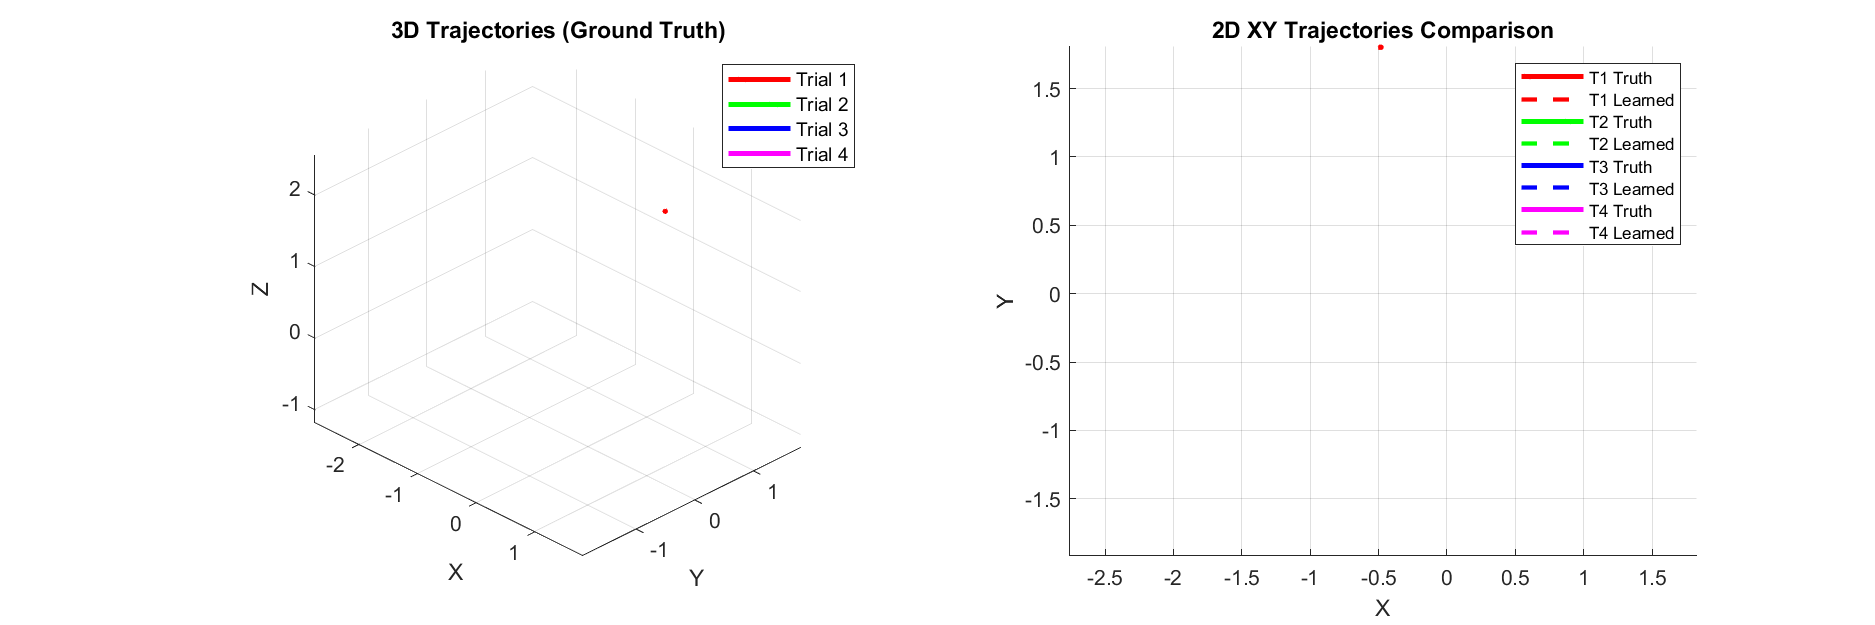
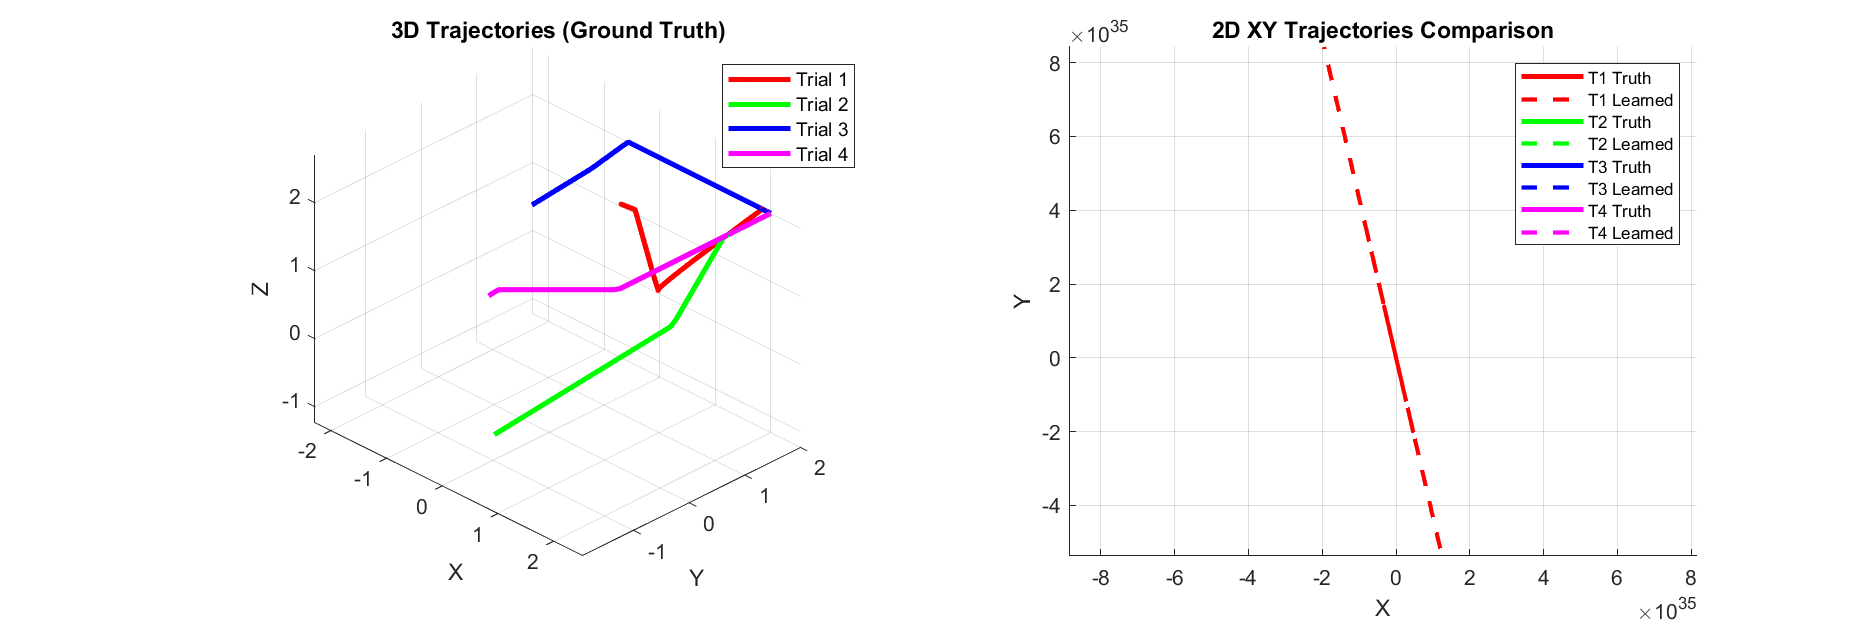
changed parameters

diff --git a/hierarchical_motion_inference_3D_EXACT.m b/hierarchical_motion_inference_3D_EXACT.m
@@ -128,10 +128,10 @@ fprintf('  Workspace: x,y,z ∈ [%.2f, %.2f] meters\n\n', workspace_bounds(1,1),
 % LEARNING PARAMETERS
 % ====================================================================
 
-eta_rep = 0.01;          % Representation learning rate (INCREASED from 0.001497)
-eta_W = 0.001;           % Weight matrix learning rate (INCREASED from 0.000155)
-momentum = 0.90;         % Momentum for representation updates (DECREASED for faster learning)
-weight_decay = 0.98;     % L2 regularization on weights (DECREASED for less decay)
+eta_rep = 0.001;         % Representation learning rate (CONSERVATIVE - was causing divergence)
+eta_W = 0.0001;          % Weight matrix learning rate (CONSERVATIVE)
+momentum = 0.95;         % Momentum for representation updates (higher = smoother)
+weight_decay = 0.99;     % L2 regularization on weights (more decay = more stability)
 pi_L1 = 100;             % Precision (reliability) of L1 sensory input
 pi_L2 = 10;              % Precision of L2 motor basis
 pi_L3 = 1;               % Precision of L3 goal representation
@@ -317,17 +317,24 @@ for i = 1:N-1
     % STEP 6: REPRESENTATION UPDATES (3D)
     % ==============================================================
     
-    % L1: Proprioceptive state updates - LEARN from prediction error
-    % Position: update toward sensory input but learn to predict it
-    % (Don't clamp - let it learn!)
-    delta_R_L1_pos = E_L1(i,1:3);  % Position error drives learning
-    R_L1(i+1,1:3) = R_L1(i,1:3) - eta_rep * delta_R_L1_pos * 0.5;  % Partial update
+    % L1: Proprioceptive state updates
+    % Position is integrated from velocity (standard kinematics)
+    % Don't update position directly - let velocity drive it
     
-    % Velocity inferred from prediction error
-    delta_R_L1_vel = -E_L1(i,4:6);
+    % Velocity inferred from prediction error (small learning rate to avoid divergence)
     decay = 1 - momentum;
-    R_L1(i+1,4:6) = momentum * R_L1(i,4:6) + decay * eta_rep * delta_R_L1_vel;
-    R_L1(i+1,4:6) = max(-2, min(2, R_L1(i+1,4:6)));  % 3D Velocity bounds
+    delta_R_L1_vel = -E_L1(i,4:6);
+    R_L1(i+1,4:6) = momentum * R_L1(i,4:6) + decay * (eta_rep * 0.1) * delta_R_L1_vel;
+    R_L1(i+1,4:6) = max(-2, min(2, R_L1(i+1,4:6)));  % 3D Velocity bounds [-2, 2] m/s
+    
+    % Position integrates from velocity (stable kinematic equation)
+    R_L1(i+1,1:3) = R_L1(i,1:3) + dt * R_L1(i+1,4:6);
+    
+    % Clamp to workspace bounds (prevent unbounded growth)
+    R_L1(i+1,1) = max(workspace_bounds(1,1), min(workspace_bounds(1,2), R_L1(i+1,1)));
+    R_L1(i+1,2) = max(workspace_bounds(2,1), min(workspace_bounds(2,2), R_L1(i+1,2)));
+    R_L1(i+1,3) = max(workspace_bounds(3,1), min(workspace_bounds(3,2), R_L1(i+1,3)));
+    
     R_L1(i+1,7) = 1;  % Bias
     
     % L2: Motor basis updates driven by 3D goal-directed reaching
@@ -349,10 +356,12 @@ for i = 1:N-1
     % Learn mapping from motor basis to proprioceptive state
     dW_L1 = -(eta_W * pi_L1 / layer_scale_L1) * (E_L1(i,:)' * R_L2(i,:));
     W_L1_from_L2 = W_L1_from_L2 + dW_L1;
+    W_L1_from_L2 = max(-10, min(10, W_L1_from_L2));  % Bounds: [-10, 10]
     
     % Learn mapping from goals to motor commands
     dW_L2 = -(eta_W * pi_L2 / layer_scale_L2) * (E_L2(i,:)' * R_L3(i,:));
     W_L2_from_L3 = W_L2_from_L3 + dW_L2;
+    W_L2_from_L3 = max(-10, min(10, W_L2_from_L3));  % Bounds: [-10, 10]
     
     % Weight regularization
     W_L1_from_L2 = W_L1_from_L2 * weight_decay;
